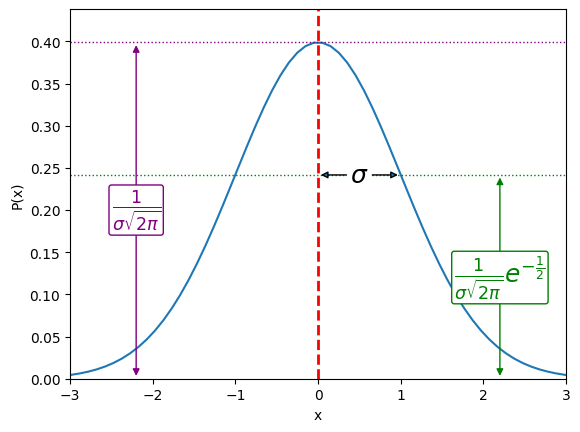
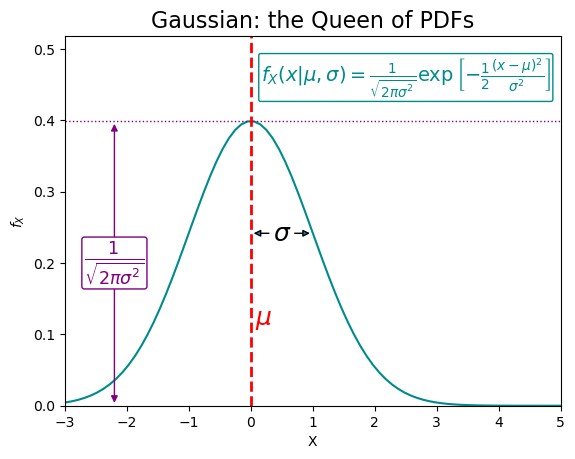
Workshop 3 solutions

diff --git a/Workshop3.md b/Workshop3.md
@@ -21,9 +21,9 @@ numbering:
 Measurements of two RVs are as follows: 
 
 ```
-X1 = [18_841, 20_449, 20_987, 21_854, 22_778, 24_075, 25_253, 26_155, 27_227, 27_092]
+X1 = [18_841, 20_449, 20_987, 21_854, 22_778, 24_075, 25_253, 26_155, 27_227, 27_092,]
 
-X2 = [11, 16.3333, 23.75, 29.8333, 34.3333, 42.25, 47.5, 53.25, 57.0833, 58.1667]
+X2 = [11, 16.3333, 23.75, 29.8333, 34.3333, 42.25, 47.5, 53.25, 57.0833, 58.1667,]
 ```
 
 * a) Calculate the mean, variance, and standard deviation of each RV
@@ -31,6 +31,69 @@ X2 = [11, 16.3333, 23.75, 29.8333, 34.3333, 42.25, 47.5, 53.25, 57.0833, 58.1667
 * b) Find the covariance matrix for these two RVs
 
 * c) What do the results indicate to you?
+
+## Example Solution
+
+```{code-cell} python
+
+# Data from https://www.tylervigen.com/spurious/correlation/
+
+import numpy as np
+import matplotlib.pyplot as plt
+
+X1 = np.array([18_841, 20_449, 20_987, 21_854, 22_778, 24_075, 25_253, 26_155, 27_227, 27_092])
+
+print("\n X1 mean: {},  var: {}, sigma: {}".format( np.mean(X1), np.var(X1), np.std(X1) ) )
+
+X2 = np.array([11, 16.3333, 23.75, 29.8333, 34.3333, 42.25, 47.5, 53.25, 57.0833, 58.1667])
+
+print("\n X2 mean: {},  var: {}, sigma: {}".format( np.mean(X2), np.var(X2), np.std(X2) ) )
+
+# Always plot the data!
+
+fig, ax = plt.subplots()
+
+ax.scatter(X1, 
+	    X2, 
+	    color='skyblue', 
+	    marker='*',
+	    label='Data' 
+	    )
+
+ax.set_xlabel("X1")
+ax.set_ylabel("X2")
+plt.legend()
+plt.show()
+
+
+cov_mat = np.cov(X1,X2)
+print("\n Covariance matrix: \n",cov_mat)
+
+print(f"\n V[X1] (cov): {cov_mat[0][0]}")
+print(f"\n V[X1] (var): {np.var(X1)}")
+
+print("\n Yikes, why does cov(x,y)[0,0] not give me the same answer as var(X1)?!")
+
+# this is because numpy var defaults to the biased variance calculation with 1/N normalisation, whereas cov uses the unbiased 1/(N-1) normalisation
+
+print("\n X1 unbiased var: {}".format( np.var(X1,ddof=1) ) )
+print("\n X2 unbiased var: {}".format( np.var(X2,ddof=1) ) )
+
+print("\n With var(Xi,ddof=1) we get the matching diagonals")
+
+cc_mat = np.corrcoef(X1,X2)
+print("\n Correlation matrix: \n",cc_mat)
+
+print("\n We notice a very high positive linear correlation of ", cc_mat[0,1])
+
+print("\n This indicates a strong linear correlation between X1 and X2. So it may surprise you to learn the source of these data...")
+
+print("\n X1: USA bachelors degrees awarded in math and stats, per year, ordered by year")
+
+print("\n X2: google searches for reddit (relative to some baseline)")
+
+print("\n For more spurious correlations, see https://www.tylervigen.com/spurious/correlation/")
+```
 
 ---
 
@@ -42,13 +105,40 @@ a) Extract 100 values of speed from a Uniform(-160,160) distribution.
 
 b) Plot energy (y-axis) versus speed values (x-axis)
 
-c) Find the covariance cov(E,v) and correlation coefficient $\rho(E,v)$
+c) Find the covariance cov(E,v) and linear correlation coefficient $\rho(E,v)$
 
 d) What do the results indicate to you?
 
+## Example Solution for Task 2
+
+```{code-cell}python
+from scipy.stats import uniform
+import matplotlib.pyplot as plt
+from matplotlib.pyplot import figure
+fig1, ax1 = plt.subplots(1, 1)
+
+uniform_dist = uniform(-160,320)
+speeds = uniform_dist.rvs(size=100)
+energies = 0.5*speeds**2
+
+ax1.scatter(speeds, energies)
+ax1.set_xlim(-160,160)
+plt.show()
+
+cov_mat_ev = np.cov(energies, speeds)
+print("\n Covariance matrix: \n",cov_mat_ev)
+
+cc_mat_ev = np.corrcoef(energies, speeds)
+print("\n Linear Correlation matrix: \n",cc_mat_ev)
+
+print("\n Linear Correlations are tiny: {}".format( cc_mat_ev[0,1] ) )
+print("\n Indication is that v and E are not *linearly correlated*. This is expected because E~v^2.")
+
+```
+
 ---
 
-## Task 3: Optional Math Task 
+## Optional Math Task (if this is not your first rodeo)
 
 A function of three RVs is $f(x,y,z) = 2x + 3y + 4z = \alpha_1 x_{(1)} + \alpha_2 x_{(2)} + \alpha_3 x_{(3)}$.
 
@@ -65,9 +155,31 @@ $V[f]  = \sum\limits_{i=1}^{3} \sum\limits_{j=1}^{3} \dfrac{\partial f}{\partial
 
 a) Show that these methods give the same answer for this function.
 
+
+
+## Example Solution to math task
+
+**Speedy Answer**
+
+For the second method, we have partial derivatives in place of the coefficients $\alpha$. We can quickly see that the partial derivatives of a linear function do indeed return the coefficents. For example:
+
+$\dfrac{\partial f}{\partial x_{(1)} }\bigg|_{x=\mu} = \dfrac{\partial}{\partial x_{(1)} }\left(\alpha_1 X_{(1)} + \alpha_2 X_{(2)} + \alpha_3 X_{(3)}\right) = \alpha_1$
+
+This is sufficient to show that the two approaches are equivalent for a linear function.
+
+Notice that the definition has a specifier that after taking the derivative, we evaluate the result at $x=\mu$. This is irrelevant for a linear function, because there will not be any $x$ terms after taking the derivatives.
+
+**A bit more detail:**
+
+For the first method note that the $i,j$ sums are cycling through pairs, so we get $3^2=9$ terms.
+
+$\alpha_1=2, \alpha_2=3, \alpha_3=4$
+
+$V[f] = \alpha_1 \alpha_1\, \mathsf{cov}(x_{(1)}, x_{(1)}) + \alpha_1 \alpha_2\, \mathsf{cov}(x_{(1)}, x_{(2)}) + \alpha_1 \alpha_3 \,\mathsf{cov}(x_{(1)}, x_{(3)}) +$
+
+$\;\;\;\;\;\;\;\;\;\;\alpha_2 \alpha_1\, \mathsf{cov}(x_{(2)}, x_{(1)}) + \alpha_2 \alpha_2\, \mathsf{cov}(x_{(2)}, x_{(2)}) + \alpha_2 \alpha_3\, \mathsf{cov}(x_{(2)}, x_{(3)}) +$
+
+$\;\;\;\;\;\;\;\;\;\;\alpha_3 \alpha_1\, \mathsf{cov}(x_{(3)}, x_{(1)}) + \alpha_3 \alpha_2\, \mathsf{cov}(x_{(3)}, x_{(2)}) + \alpha_3 \alpha_3\, \mathsf{cov}(x_{(3)}, x_{(3)})$
+
 ---
-
-## Example Solutions
-
-To follow after the workshop.
 

diff --git a/WIP/Workshop3.md b/WIP/Workshop3.md
@@ -1,0 +1,73 @@
+---
+jupytext:
+  formats: md:myst
+  text_representation:
+    extension: .md
+    format_name: myst
+kernelspec:
+  name: python3
+  display_name: 'Python 3'
+numbering:
+  title: false
+  headings: false
+  equation: true
+---
+
+# Workshop 3: Covariance & Correlations
+
+
+## Task 1: Covariance of two datasets
+
+Measurements of two RVs are as follows: 
+
+```
+X1 = [18_841, 20_449, 20_987, 21_854, 22_778, 24_075, 25_253, 26_155, 27_227, 27_092]
+
+X2 = [11, 16.3333, 23.75, 29.8333, 34.3333, 42.25, 47.5, 53.25, 57.0833, 58.1667]
+```
+
+* a) Calculate the mean, variance, and standard deviation of each RV
+
+* b) Find the covariance matrix for these two RVs
+
+* c) What do the results indicate to you?
+
+---
+
+## Task 2: Linear Correlations
+
+The kinetic energy $E$ of a sports cars is related to its speed $v$ as $E\propto v^2$.
+
+a) Extract 100 values of speed from a Uniform(-160,160) distribution.
+
+b) Plot energy (y-axis) versus speed values (x-axis)
+
+c) Find the covariance cov(E,v) and correlation coefficient $\rho(E,v)$
+
+d) What do the results indicate to you?
+
+---
+
+## Task 3: Optional Math Task 
+
+A function of three RVs is $f(x,y,z) = 2x + 3y + 4z = \alpha_1 x_{(1)} + \alpha_2 x_{(2)} + \alpha_3 x_{(3)}$.
+
+Two methods for finding the variance of this function are: 
+
+(1) Using Expectation Algebra:
+
+$V[f]  = \sum\limits_{i=1}^{3} \sum\limits_{j=1}^{3} \alpha_i \alpha_j \mathsf{cov} [x_{(i)}, x_{(j)}]$.    
+
+
+(2) Using the first two terms of the Taylor expansion for $f$. 
+
+$V[f]  = \sum\limits_{i=1}^{3} \sum\limits_{j=1}^{3} \dfrac{\partial f}{\partial x_{(i)} }  \dfrac{\partial f}{\partial x_{(j)} } \bigg|_{x_{(j)}=\mu} \mathsf{cov}[x_{(i)}, x_{(j)}]$. 
+
+a) Show that these methods give the same answer for this function.
+
+---
+
+## Example Solutions
+
+To follow after the workshop.
+

diff --git a/Normal.md b/Normal.md
@@ -40,14 +40,14 @@ The reason for the apparently unrelated RVs in [](#fig:norm-everywhere) having t
 
 The Gaussian (aka Normal) Probability Distribution Function (PDF) is given in [](#eq:gaus_pdf). It describes Continuous RVs (eg blood pressure, height, weight, proton speed differences).
 
-$$\label{eq:gaus_pdf} f_X (x; \mu,\sigma) = \dfrac{1}{\sqrt{ 2\pi\sigma^2} } \exp{ \left[ -\frac{1}{2} \frac{(x-\mu)^2}{ \sigma^2}  \right]}$$
+$$\label{eq:gaus_pdf} f_X (x; \mu,\sigma) = \dfrac{1}{\sqrt{ 2\pi\sigma^2} } \exp{ \left[ -\frac{1}{2} \frac{(x-\mu)^2}{ \sigma^2}  \right]}\; ; \;\;\; -\infty < x < \infty$$
 
 A plot of the Gaussian for a choice of parameters is shown in [](#fig:gaussian).
 
 :::{figure} 
 :label: fig:gaussian
 :align: left
-![](figures/PLOTDAT-MeanSigmaFWHM-1.png)
+![](figures/PLOTDAT-MeanSigmaFWHM.png)
 
 A Gaussian PDF with the mean $\mu$ indicated by the red dashed vertical line.
 :::
